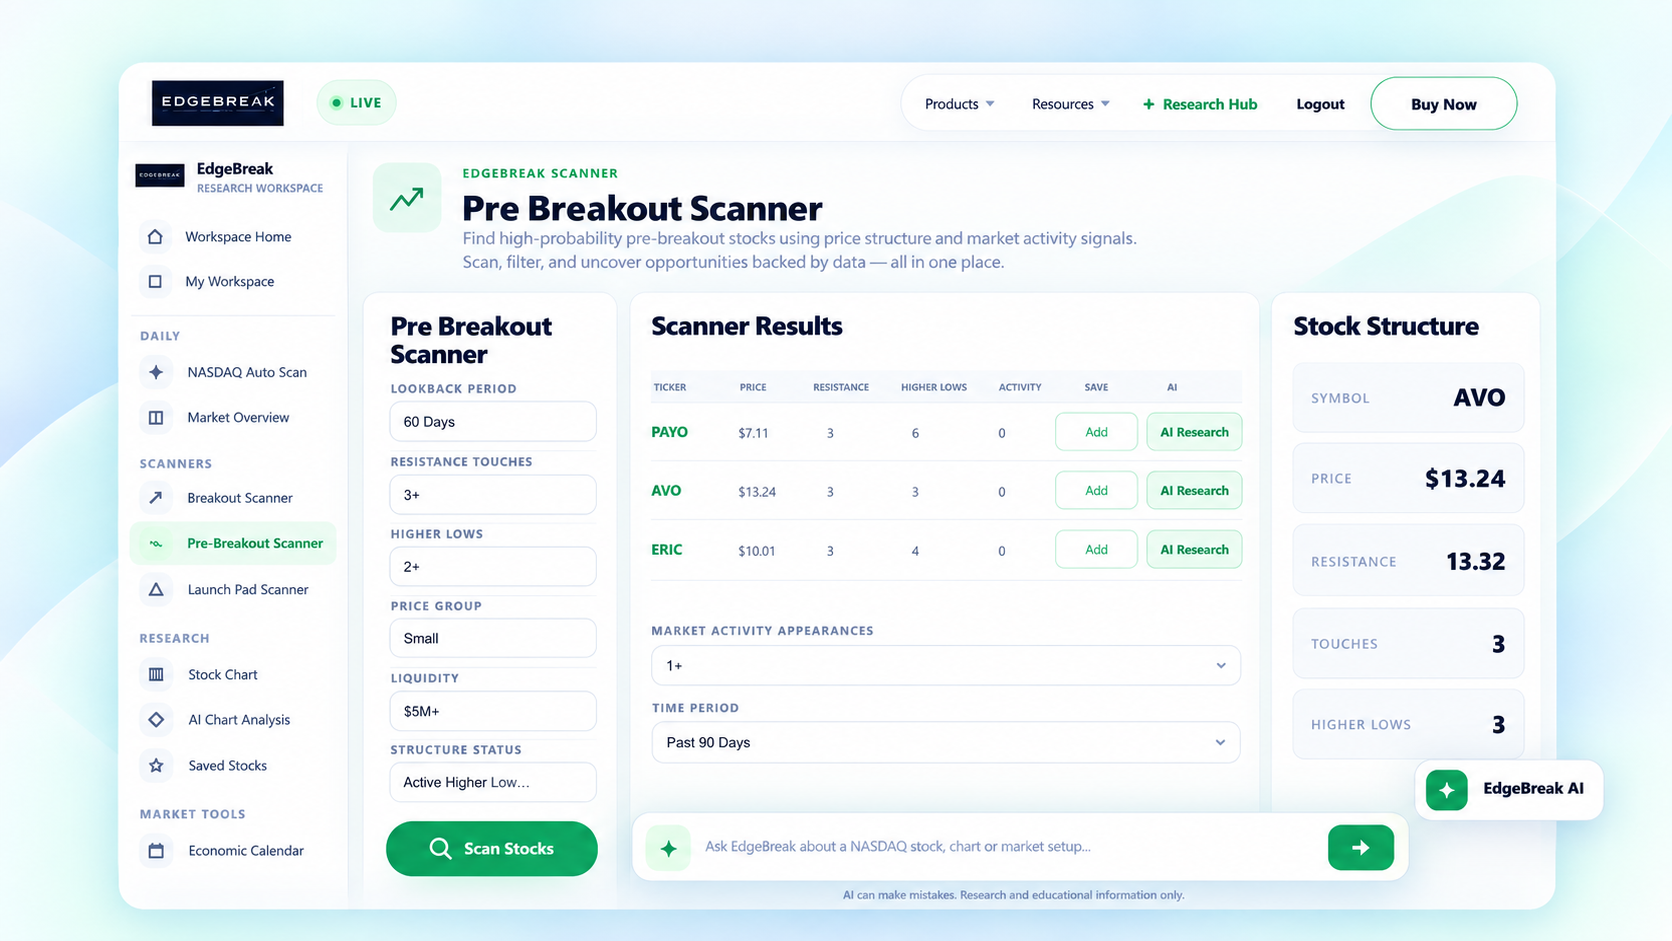
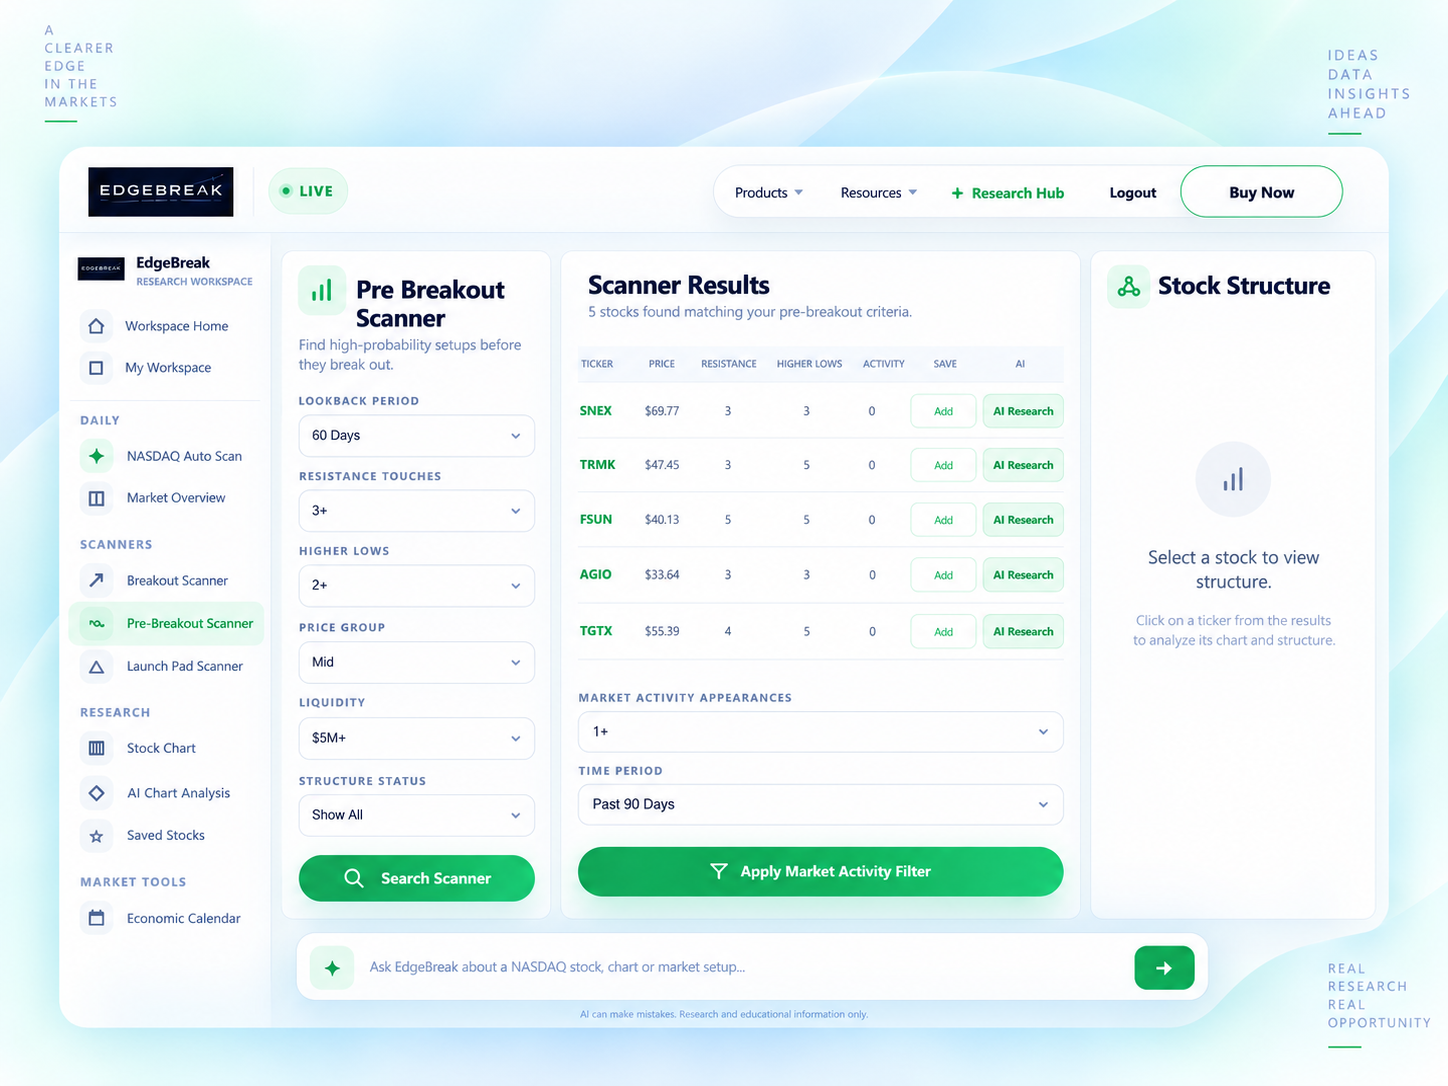
.

diff --git a/academy/mastering-the-nasdaq-scanner.html b/academy/mastering-the-nasdaq-scanner.html
@@ -800,6 +800,11 @@ body{
                 <p>The result is a starting point for investigation — not a list of recommendations.</p>
             </section>
 
+            <figure class="ac-lesson-image">
+                <img src="/images/automated-daily-scan.webp" alt="EdgeBreak Automated Daily Scan showing NASDAQ stocks scanned, technical setups found and stocks surfaced for AI research.">
+                <figcaption>The Automated Daily Scan completes the first stage of market narrowing, surfacing a focused research list from thousands of NASDAQ-listed stocks.</figcaption>
+            </figure>
+
             <section class="ac-section">
                 <h2>The Breakout Scanner</h2>
                 <p>The Breakout Scanner focuses on stocks that have already moved beyond an identified resistance level.</p>
@@ -817,6 +822,11 @@ body{
                 <p>It looks for developing characteristics such as repeated resistance tests and consecutive higher lows so members can study the build-up before a possible breakout rather than only after price has already moved.</p>
                 <p>This makes it particularly useful for building watchlists and revisiting structures as they evolve.</p>
             </section>
+
+            <figure class="ac-lesson-image">
+                <img src="/images/nasdaq-pre-scanner.webp" alt="EdgeBreak Pre-Breakout Scanner showing developing NASDAQ structures approaching resistance with higher lows and market activity filters.">
+                <figcaption>The Pre-Breakout Scanner helps members research developing structures before a confirmed breakout, using resistance tests, higher lows and other technical filters.</figcaption>
+            </figure>
 
             <section class="ac-section">
                 <h2>The Launch Pad Scanner</h2>
@@ -870,7 +880,7 @@ body{
             </section>
 
             <figure class="ac-lesson-image">
-                <img src="/images/tradingview-chart.webp" alt="Interactive TradingView chart inside EdgeBreak used to review price action, resistance, higher lows and volume.">
+                <img src="/images/drag-and-drop-ai-chart.webp" alt="Interactive TradingView chart inside EdgeBreak used to review price action, resistance, higher lows and volume.">
                 <figcaption>Integrated TradingView charts allow scanner candidates to be examined in greater detail before they are saved for further research.</figcaption>
             </figure>
 
@@ -914,7 +924,7 @@ body{
             </section>
 
             <figure class="ac-lesson-image">
-                <img src="/images/my-workspace-page.webp" alt="EdgeBreak My Workspace showing a personal watchlist and integrated chart research tools.">
+                <img src="/images/watchlist-page.webp" alt="EdgeBreak My Workspace showing a personal watchlist and integrated chart research tools.">
                 <figcaption>My Workspace keeps your own research candidates together so you can revisit them rather than restarting the discovery process each day.</figcaption>
             </figure>
 
